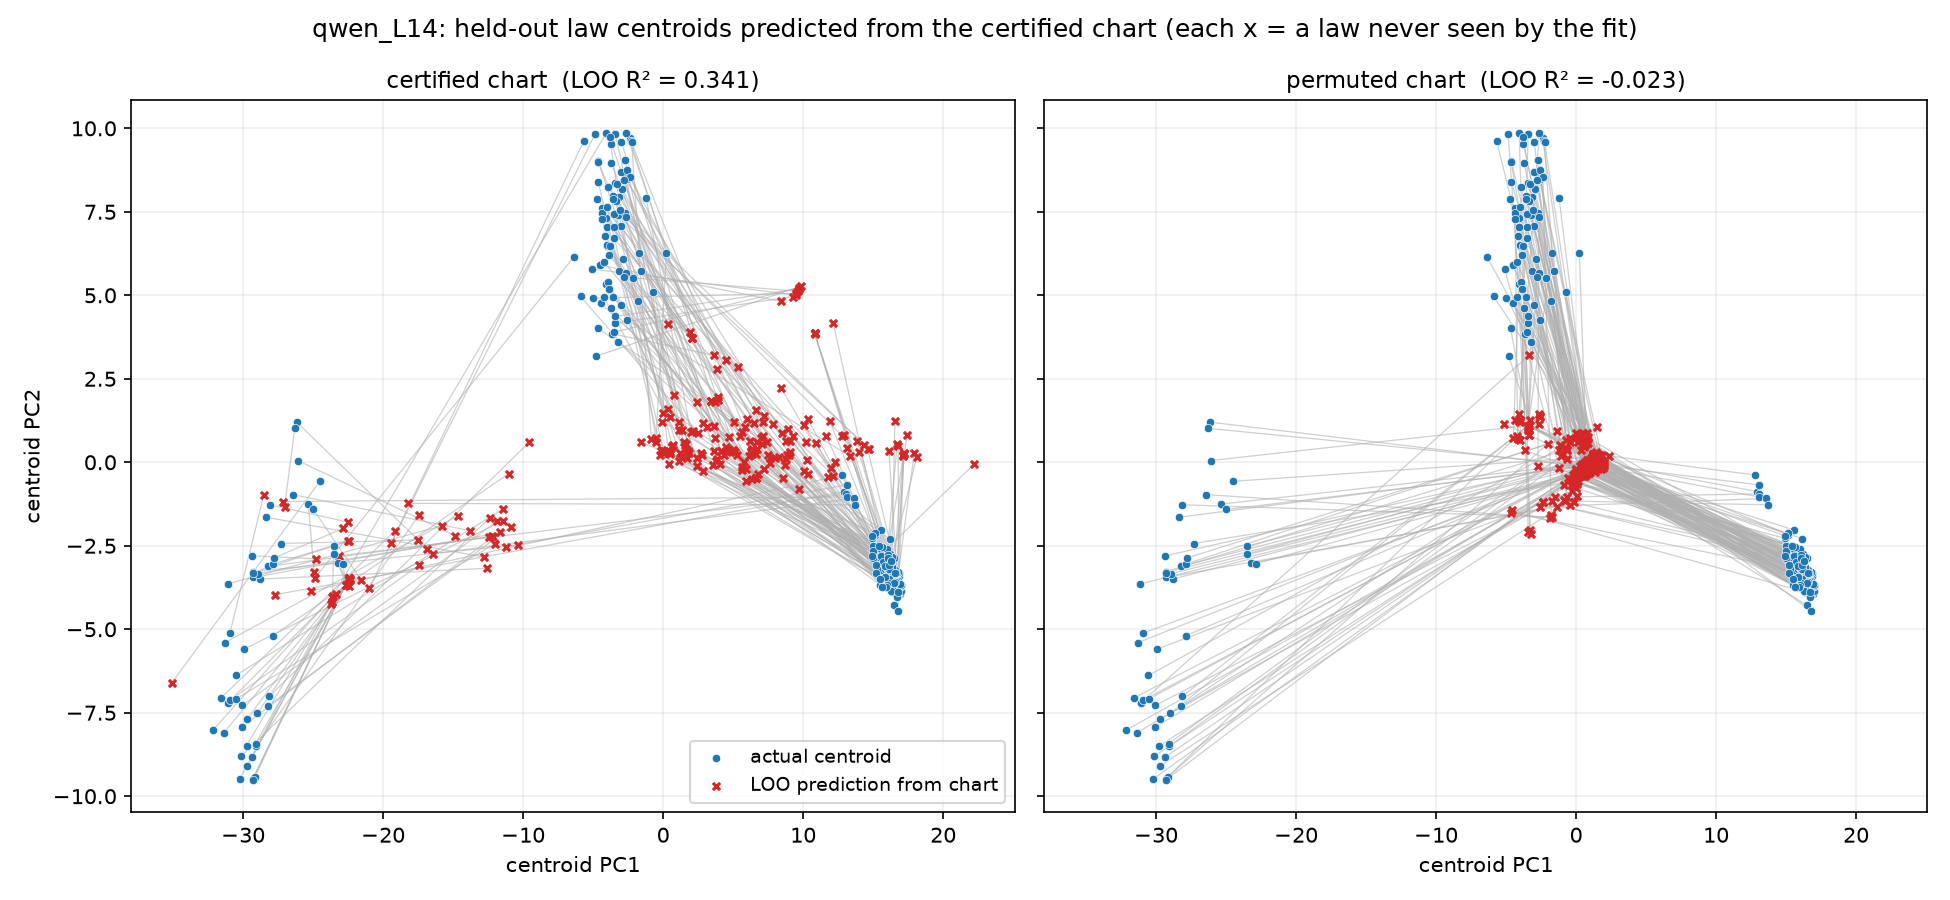
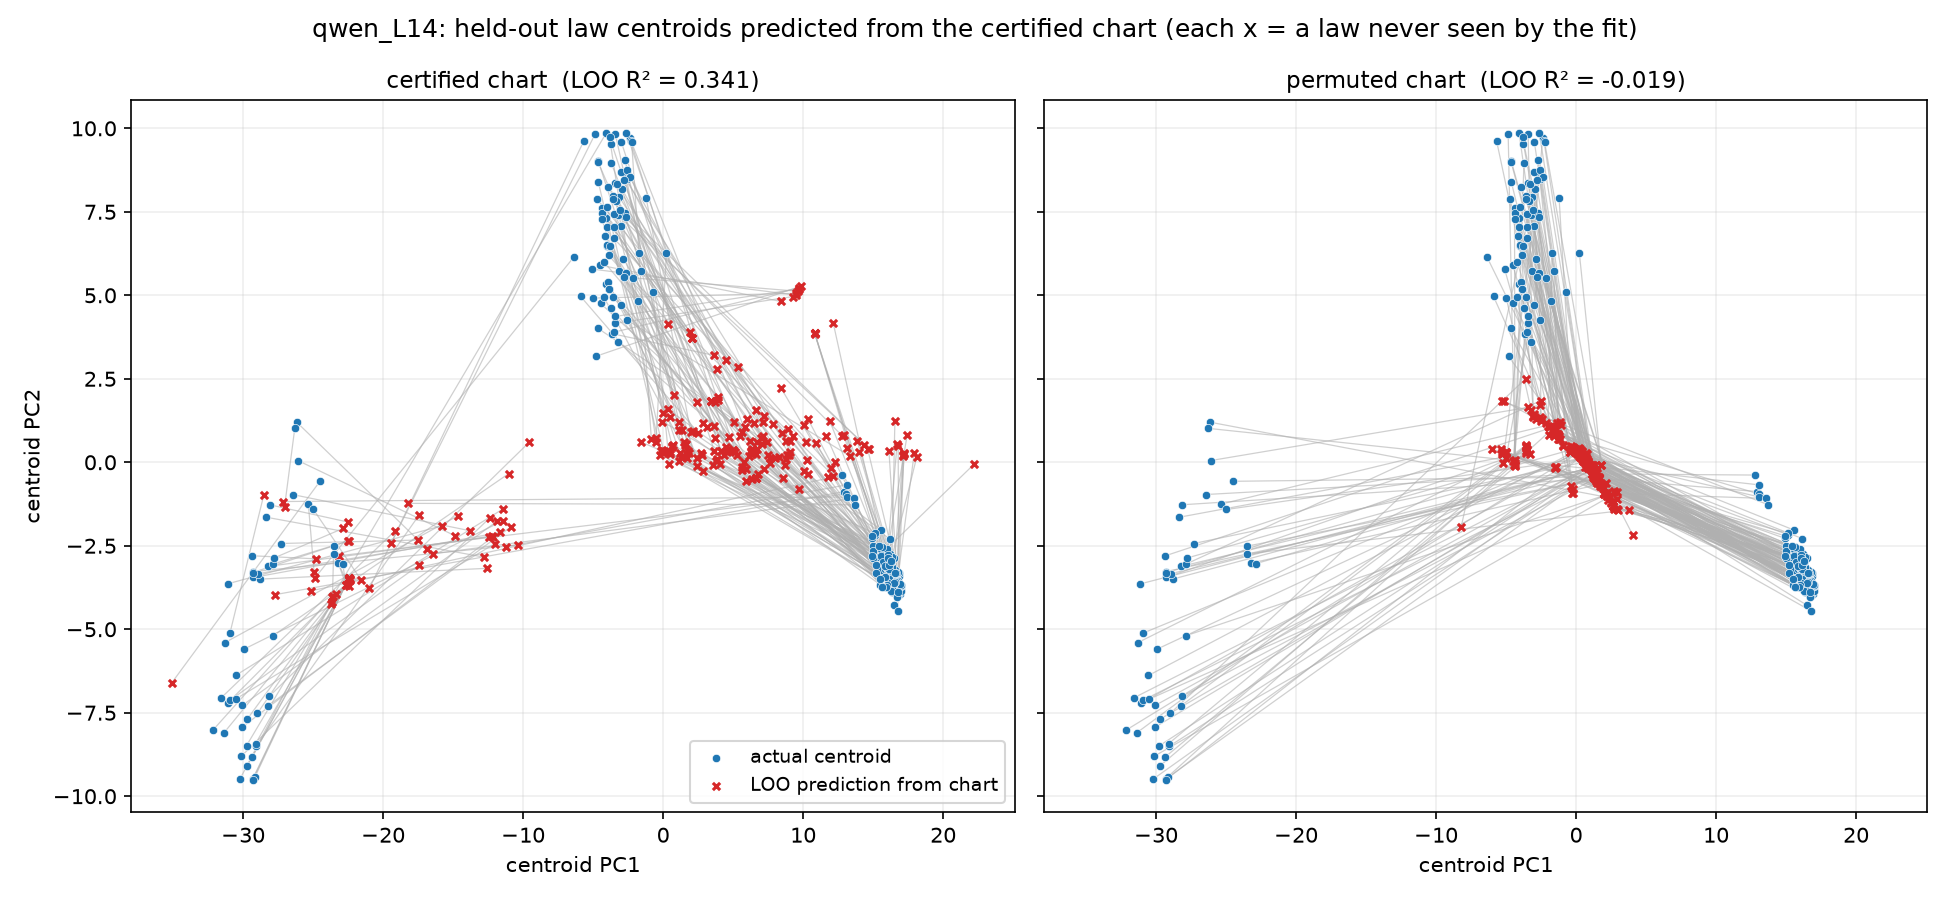
Manifold checks replicate in all four model-layer cells (LOO R2 .32-.35, p=.0196 each)

Changed region(s): [[0.5846, 0.1556, 0.9231, 0.84], [0.8923, 0.6222, 0.9231, 0.6533]]

diff --git a/causalab-integration/RESULTS.md b/causalab-integration/RESULTS.md
@@ -204,3 +204,11 @@ Llama-1B represents AND is weakly causally coupled to the chart it
 cannot use; Qwen performs without routing through the chart cell we
 found. The 8B run decides whether competence eventually recruits the
 chart (kit carries the full screened protocol).
+
+Manifold checks extended to all four (model, layer) cells: LOO ridge
+R^2 0.347 / 0.341 / 0.336 / 0.318 (qwen L7/L14, llama L4/L8), every
+cell p = 0.0196 vs 50 permuted charts; participation ratio 2.06-2.66;
+outdeg-only negative everywhere; residualized-on-strength within 0.01
+of full everywhere; nonlinear gain <= 0.05. The chart's presence,
+generalization, and strength-independence are layer-stable properties
+of both models - only its causal READOUT varies (see causal matrix).
